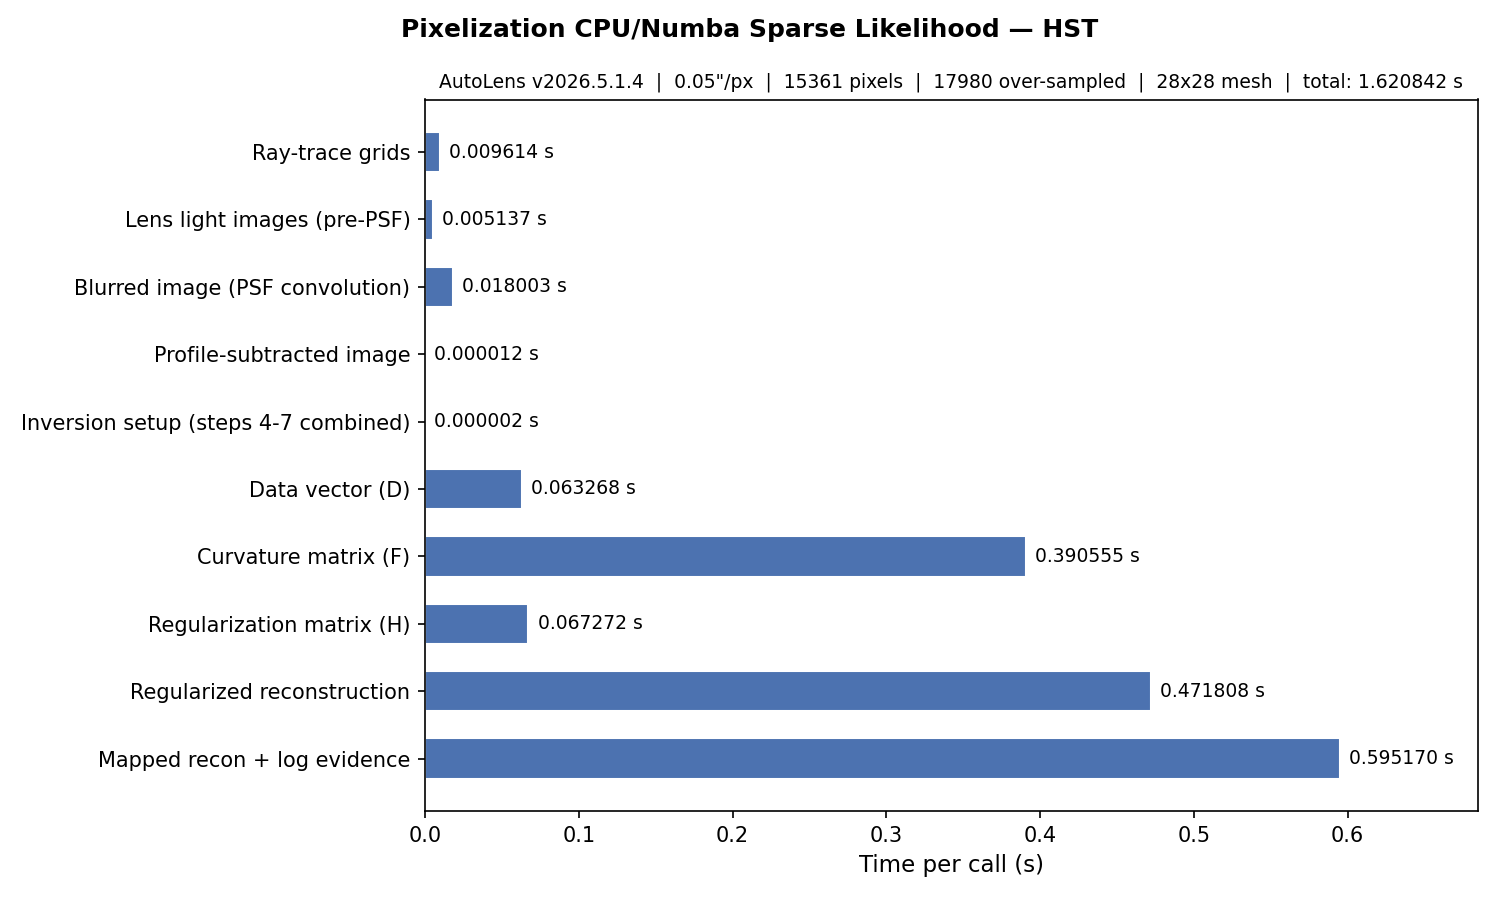
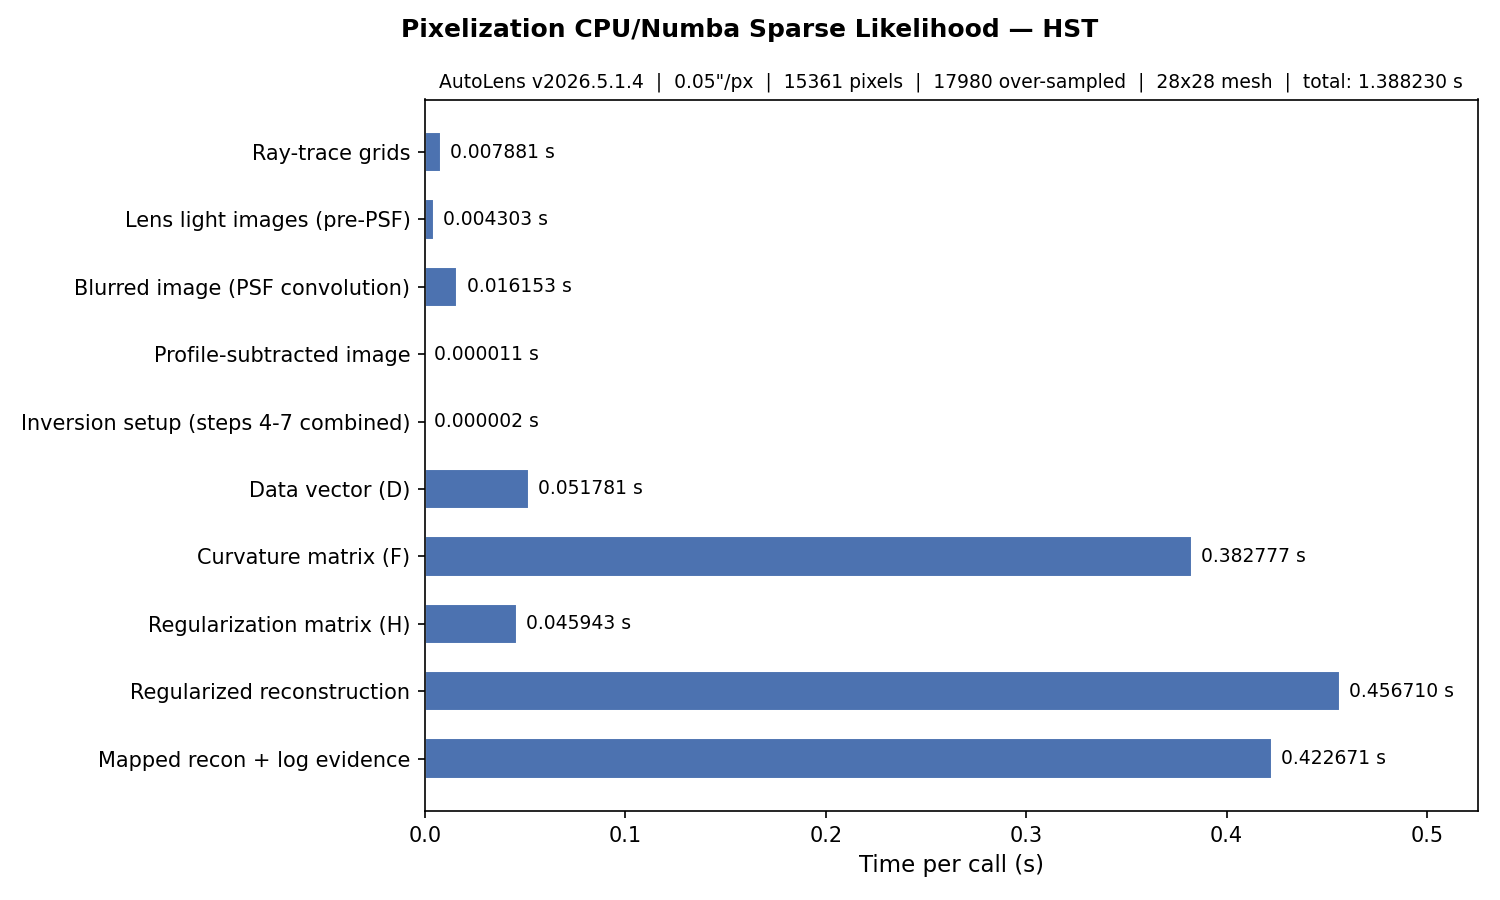
add steady-state non-sparse timing to pixelization_sparse_cpu.py
Adds a 10-repeat steady-state timing for fit_no_sparse.figure_of_merit
right after its one-shot build_and_eval block. By that point every
numba kernel touched by FitImaging is already compiled, so the
steady-state number is pure compute — the apples-to-apples counterpart
to the JAX script's "Full pipeline (single JIT)" 2.06 s.

The new measurement updates the CPU-vs-JAX picture: numba non-sparse
on a single core is 3.60 s, slower than JAX CPU's 2.06 s on 8 cores.
Numba's CPU advantage only materializes via the sparse-operator
formalism (~0.42 s steady-state for the buggy sparse path; once the
NaN bug in apply_sparse_operator_cpu is fixed, this number becomes
the legitimate ~5x speedup over JAX). Until then, JAX CPU is the
faster single-likelihood option for pixelization.

diff --git a/jax_profiling/imaging/pixelization_sparse_cpu.py b/jax_profiling/imaging/pixelization_sparse_cpu.py
@@ -278,6 +278,25 @@ with timer.section("fit_no_sparse_build_and_eval"):
     log_evidence_no_sparse = fit_no_sparse.figure_of_merit
     log_likelihood_no_sparse = fit_no_sparse.log_likelihood
 
+# Steady-state per-call timing for fit_no_sparse — the apples-to-apples
+# counterpart to the JAX script's "Full pipeline (single JIT)" number.
+# By the time this runs, every numba kernel touched by FitImaging is already
+# compiled (the build_and_eval block above is each kernel's first call), so
+# the steady-state timing is pure compute, not JIT overhead.
+
+def _build_fit_no_sparse_full():
+    fit = al.FitImaging(
+        dataset=dataset, tracer=tracer, settings=settings, xp=np,
+    )
+    return fit.figure_of_merit
+
+eager_profile("fit_no_sparse_full_likelihood", _build_fit_no_sparse_full)
+fit_no_sparse_per_call = timer.records[-1][1] / 10
+print(
+    f"  -> Numba CPU non-sparse full-likelihood per call: "
+    f"{fit_no_sparse_per_call:.6f} s"
+)
+
 print(f"  log_evidence   = {log_evidence_no_sparse}")
 print(f"  log_likelihood = {log_likelihood_no_sparse}")
 
@@ -544,6 +563,10 @@ for i, (label, per_call) in enumerate(likelihood_steps, 1):
 
 print("-" * 70)
 print(f"      {'TOTAL (step-by-step, sparse)':<{max_label}}  {step_total:>12.6f} s")
+print(
+    f"      {'Full likelihood, non-sparse (steady)':<{max_label}}  "
+    f"{fit_no_sparse_per_call:>12.6f} s"
+)
 print("=" * 70)
 
 print("\n--- Three-way log_evidence ---")
@@ -569,6 +592,7 @@ likelihood_summary = {
     },
     "steps": {label: per_call for label, per_call in likelihood_steps},
     "total_step_by_step": step_total,
+    "fit_no_sparse_full_likelihood_per_call": fit_no_sparse_per_call,
     "log_evidence_no_sparse": float(log_evidence_no_sparse),
     "log_evidence_sparse": float(log_evidence_sparse),
     "log_evidence_jax_expected": EXPECTED_LOG_EVIDENCE_HST,